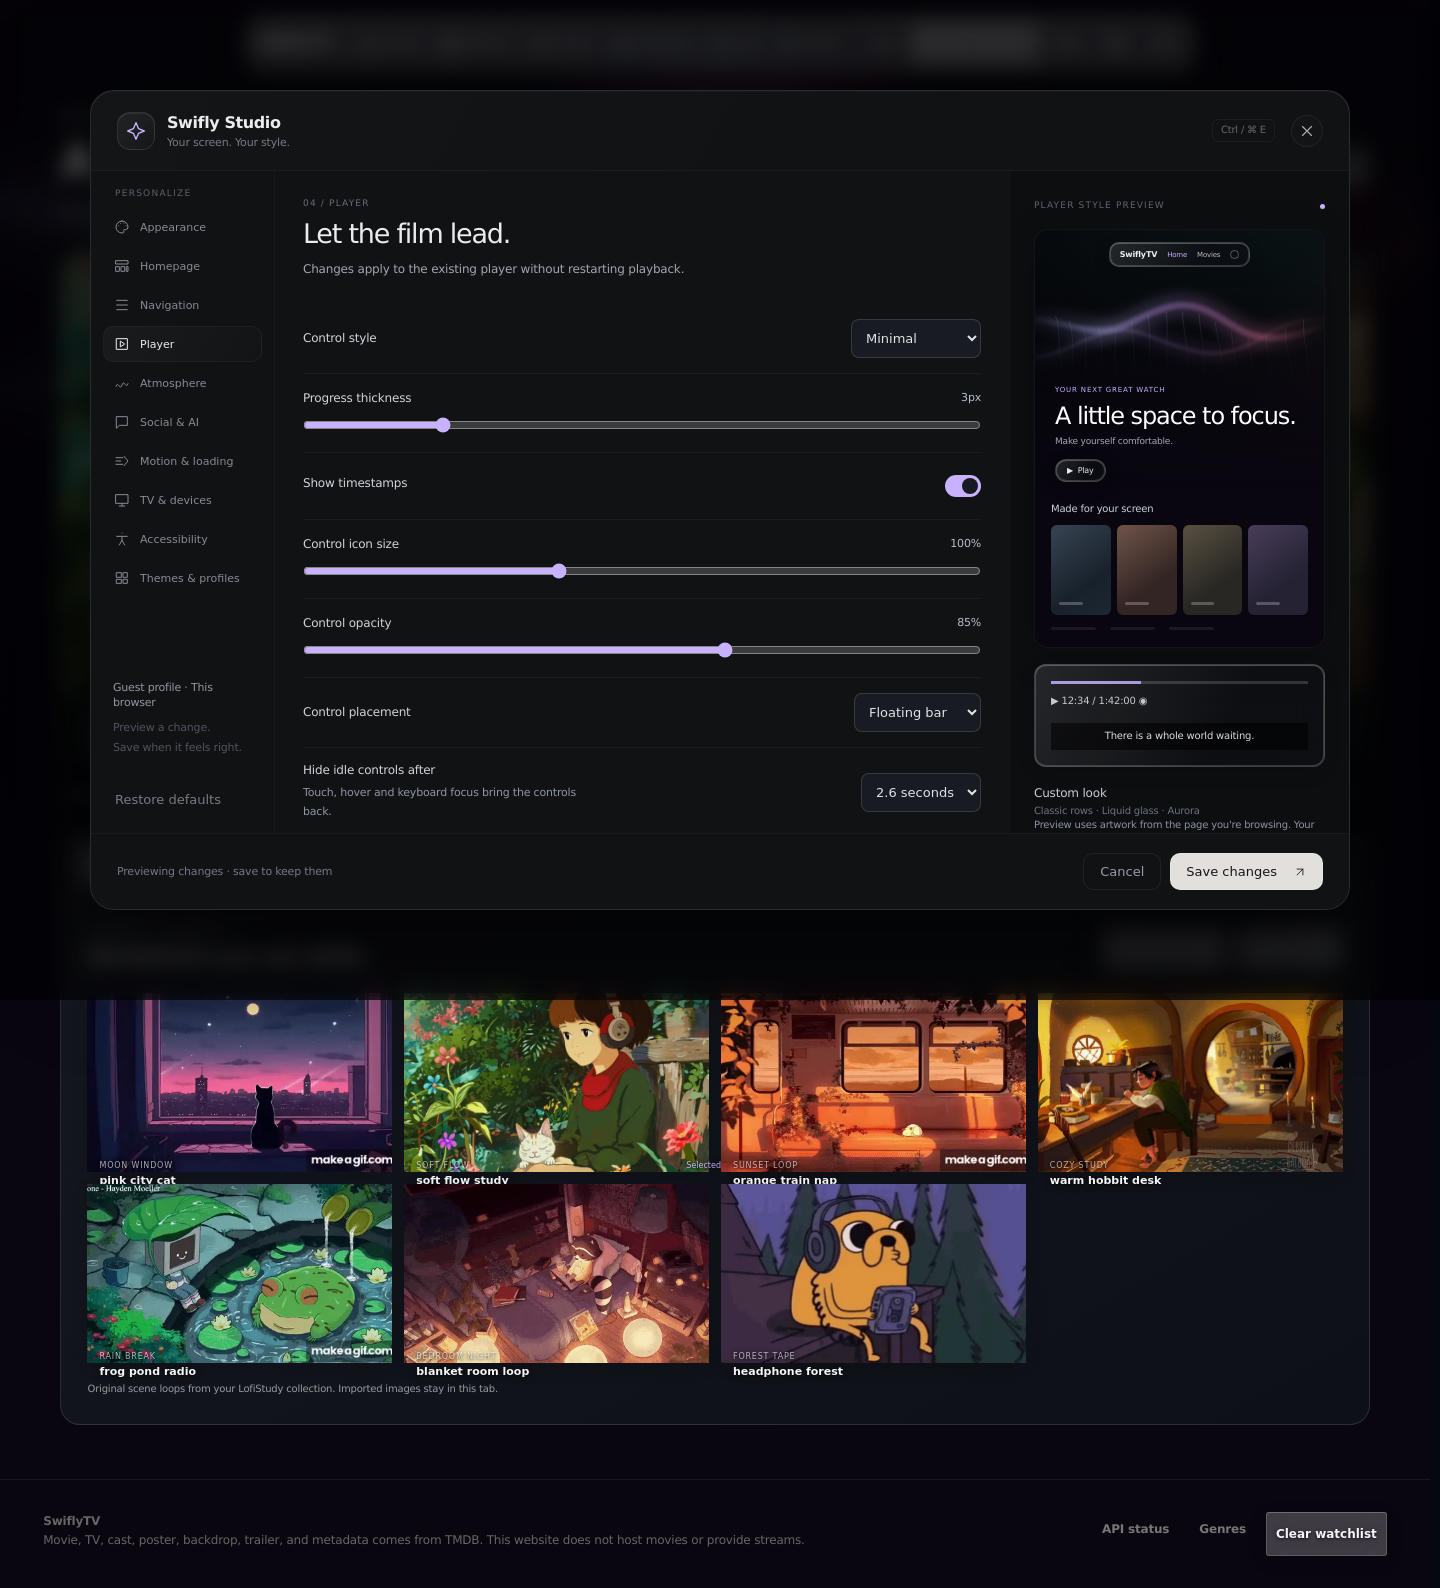
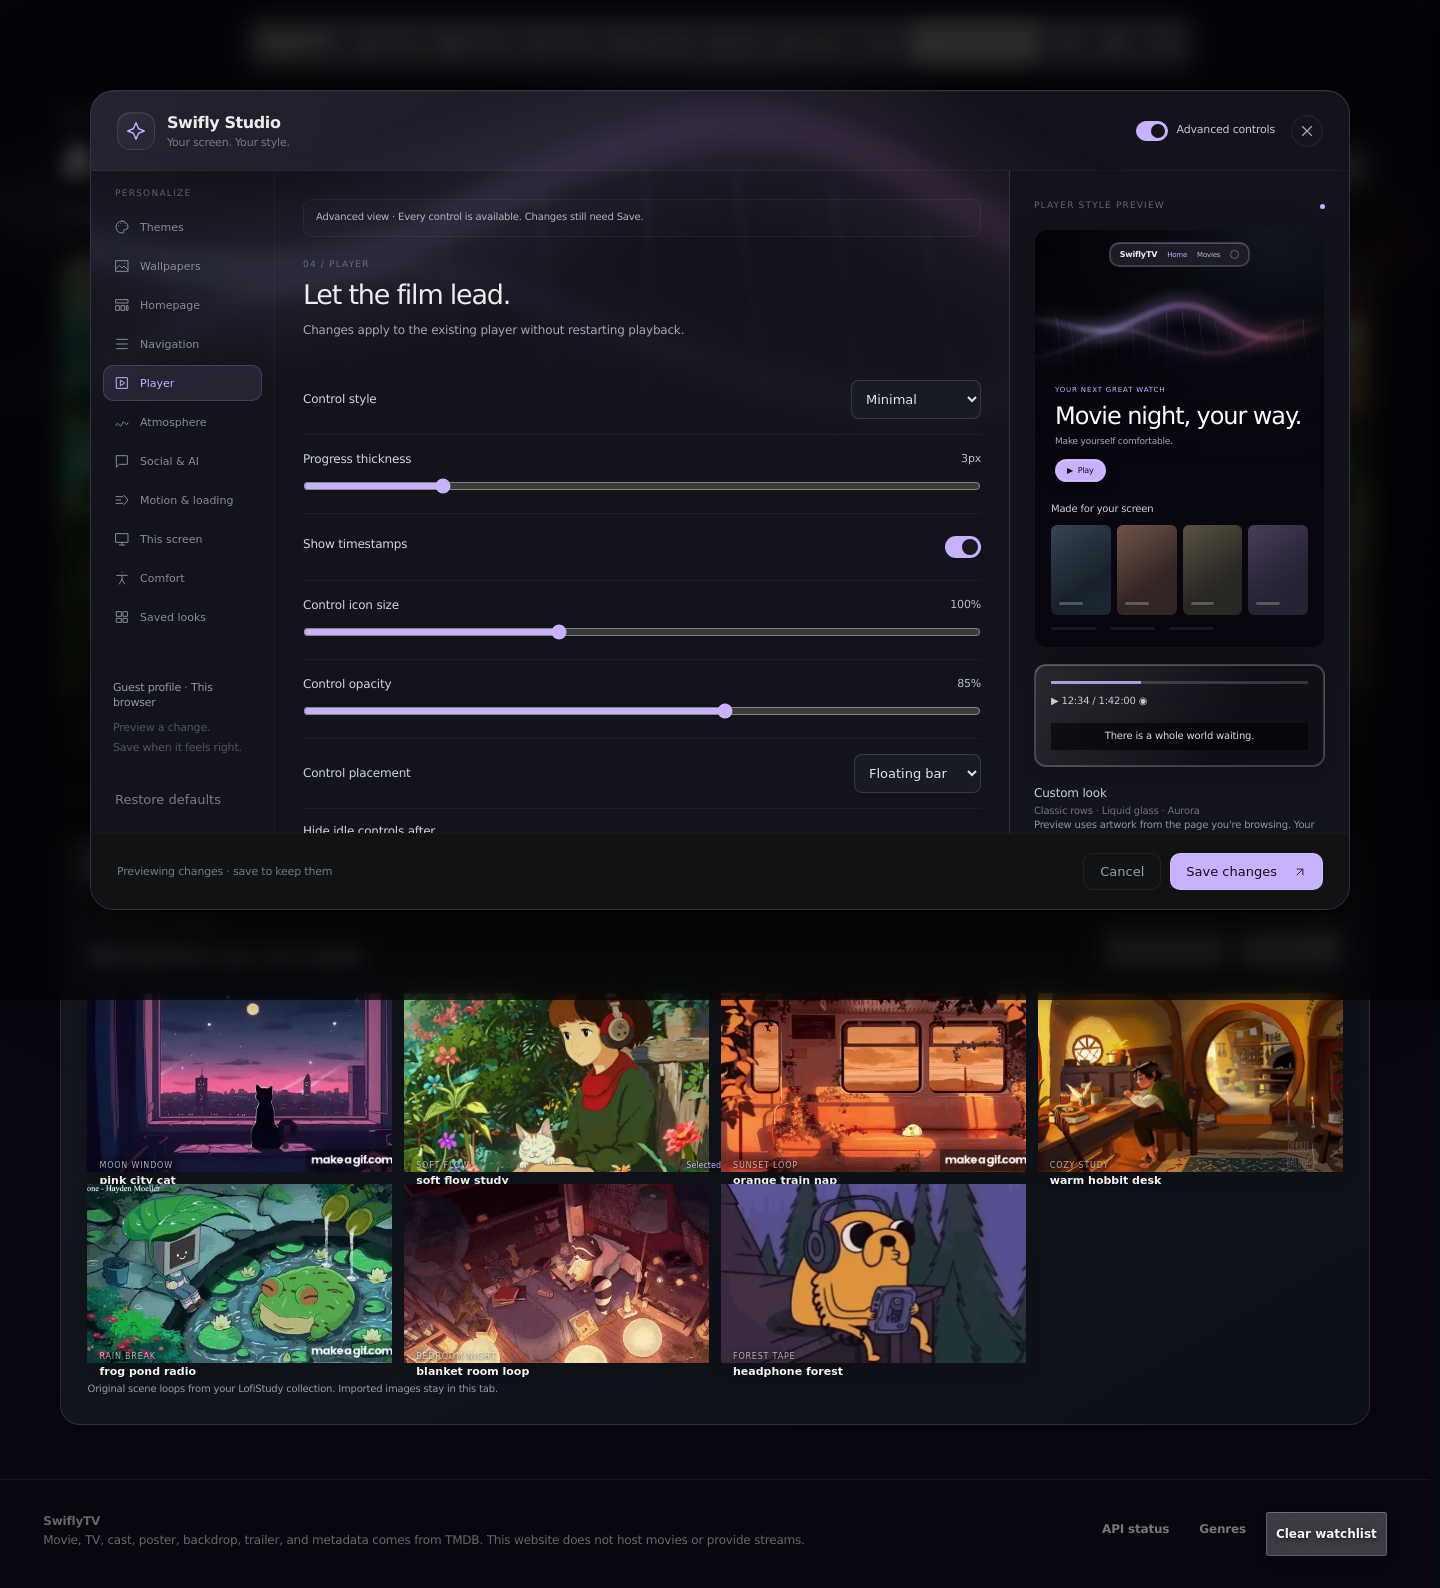
Verify all eleven Studio sections and record release checks

diff --git a/docs/wallpapers-tv-validation.md b/docs/wallpapers-tv-validation.md
@@ -1,0 +1,49 @@
+# Aurora, wallpapers and TV controls
+
+The original Aurora now works on profile selection and inside native Swifly Studio. Studio motion has its own visibility state, including on the watch page. Seasonal themes retain the selected Aurora. Reduced motion, low performance, high contrast and TV policies still apply.
+
+Wallpapers are independent of themes. Studio offers the original canvas, Aurora, moonlit woods, winter, velvet and a personal upload. Uploads are validated, decoded, optimized and stored per profile on this browser. Theme exports and account backups carry them. Readability, crop, blur, image colors and optional Aurora overlay are reversible drafts. Cancelling a file picker or an upload cannot overwrite the previous choice. Existing advanced controls remain available.
+
+TV navigation keeps every route and utility reachable. The native player has a full-width timeline above labeled transport/tools. Stage directions seek directly; the timeline previews repeated input and commits once on release. Back cancels held scrubbing until release. Disconnect and controller changes cancel pending previews. Calls, chat, party permissions, open menus and embedded-player boundaries retain ownership.
+
+## Verification
+
+- `npm run check` and `git diff --check`: pass.
+- Full `npm run test:ui` with the browser intentionally absent, matching CI's unit phase: **1,456 passed, 208 skipped, 0 failed**. The browser stage runs separately.
+- Installed Chromium, first CI browser batch: **122 passed, 0 failed**.
+- Installed Chromium, second CI browser batch: **75 passed, 0 failed**.
+- Wallpaper/account/native-video browser suites: **11 passed, 0 failed**. Actual custom upload, optimization, Save/reload/Cancel, real account recovery, invalid imported image decode and native VP8 playback at 1280×720 and 1920×1080 are exercised.
+- `npm run prepare:ai` and `npm run test:recommendations`: pass. Existing pinned models and AI form controls are preserved.
+- Shared shell: **159,732 bytes**, below the existing 160,000-byte budget.
+- Full-server acceptance: **33 passed, 0 failed, 335 assertions** across 320px phone, 1440px desktop and 1920px TV. All eleven Studio panels are visited through the actual UI, saved and cancelled; actual account readiness, library persistence, search, settings, details, Study and navigation run against Express.
+
+The first unit run exposed obsolete Aurora cache-version assertions; those now locate the actual stylesheet independent of its cache key. The first acceptance run stopped the Studio step at its old ten-tab assertion, which also prevented its later saved-player-style setup; the assertion is updated to eleven and the whole acceptance passes.
+
+## Review fixes
+
+A fresh independent whole-branch review found no Critical issues and four Important issues. The single fix pass covers all four with regression tests observed failing before the fix and passing after it:
+
+1. Secondary guest backup isolation: primary guest images, including named looks, no longer enter another profile's fallback backup.
+2. Imported rasters: complete bounded containers and dimensions are checked before application; Studio and account imports decode images before offering confirmation. Undecodable imports preserve the current data.
+3. Held controller input: keyboard/gamepad scrubs keep distinct ownership; Back, disconnect and controller handoff cancel previews without a late commit.
+4. Empty upload picker: opening and cancelling keeps the current wallpaper selected.
+
+The reviewer also flagged Studio Aurora on the watch page. It was regraded Important because this is part of the user's central request and fixed with a failing/passing lifecycle regression. No minor findings are deferred. The review was followed by this bounded fix pass rather than another review cycle.
+
+## Decisions and practical limits
+
+1. Continue implementation and merge under the user's prior explicit release authorization. Cost if the design preference changes: another reversible change and deployment.
+2. Keep uploaded images per profile in this browser and make them portable in exports/backups. This avoids adding an unrequested upload backend and prevents guest image leakage. Cost: moving to another browser requires import/export; automatic wallpaper cloud sync is not provided.
+3. Use a compact labeled TV navigation row at 1101–1500 pixels and two rows only at 801–1100. This preserves the catalog safe frame and all routes. Cost: future extra routes may need another layout adjustment.
+4. Pin Terser to minify trusted existing head scripts once at startup and share Studio SVG glyph styling. This preserves the original shell-size budget. Cost: small startup work and a production dependency.
+5. Regrade Studio Aurora on watch as Important and let the dialog animate independently. Cost: bounded CSS motion remains in an open Studio dialog during playback except TV/reduced-motion/low-performance modes.
+6. Run the full unit and installed-browser phases separately, matching CI, because a combined local run with every optional browser test enabled did not return a complete aggregate in the earlier host. Cost: the results are reported by phase, not as one combined local command. Final CI must still pass on the exact release head.
+
+Tests use actual Chromium and native video plus controlled standard Gamepad API input. Physical Xbox hardware, third-party embedded player internals, live external media providers and a live catalog are not claimed as tested. Browser fixtures replace external artwork/catalog responses; same-origin application code and routes run normally.
+
+## Screenshots
+
+- [Desktop Wallpapers](evidence/wallpapers-tv/wallpapers-1440.png)
+- [Phone Wallpapers](evidence/wallpapers-tv/wallpapers-390.png)
+- [TV player at 720p](evidence/wallpapers-tv/tv-player-1280.png)
+- [TV player at 1080p](evidence/wallpapers-tv/tv-player-1920.png)
